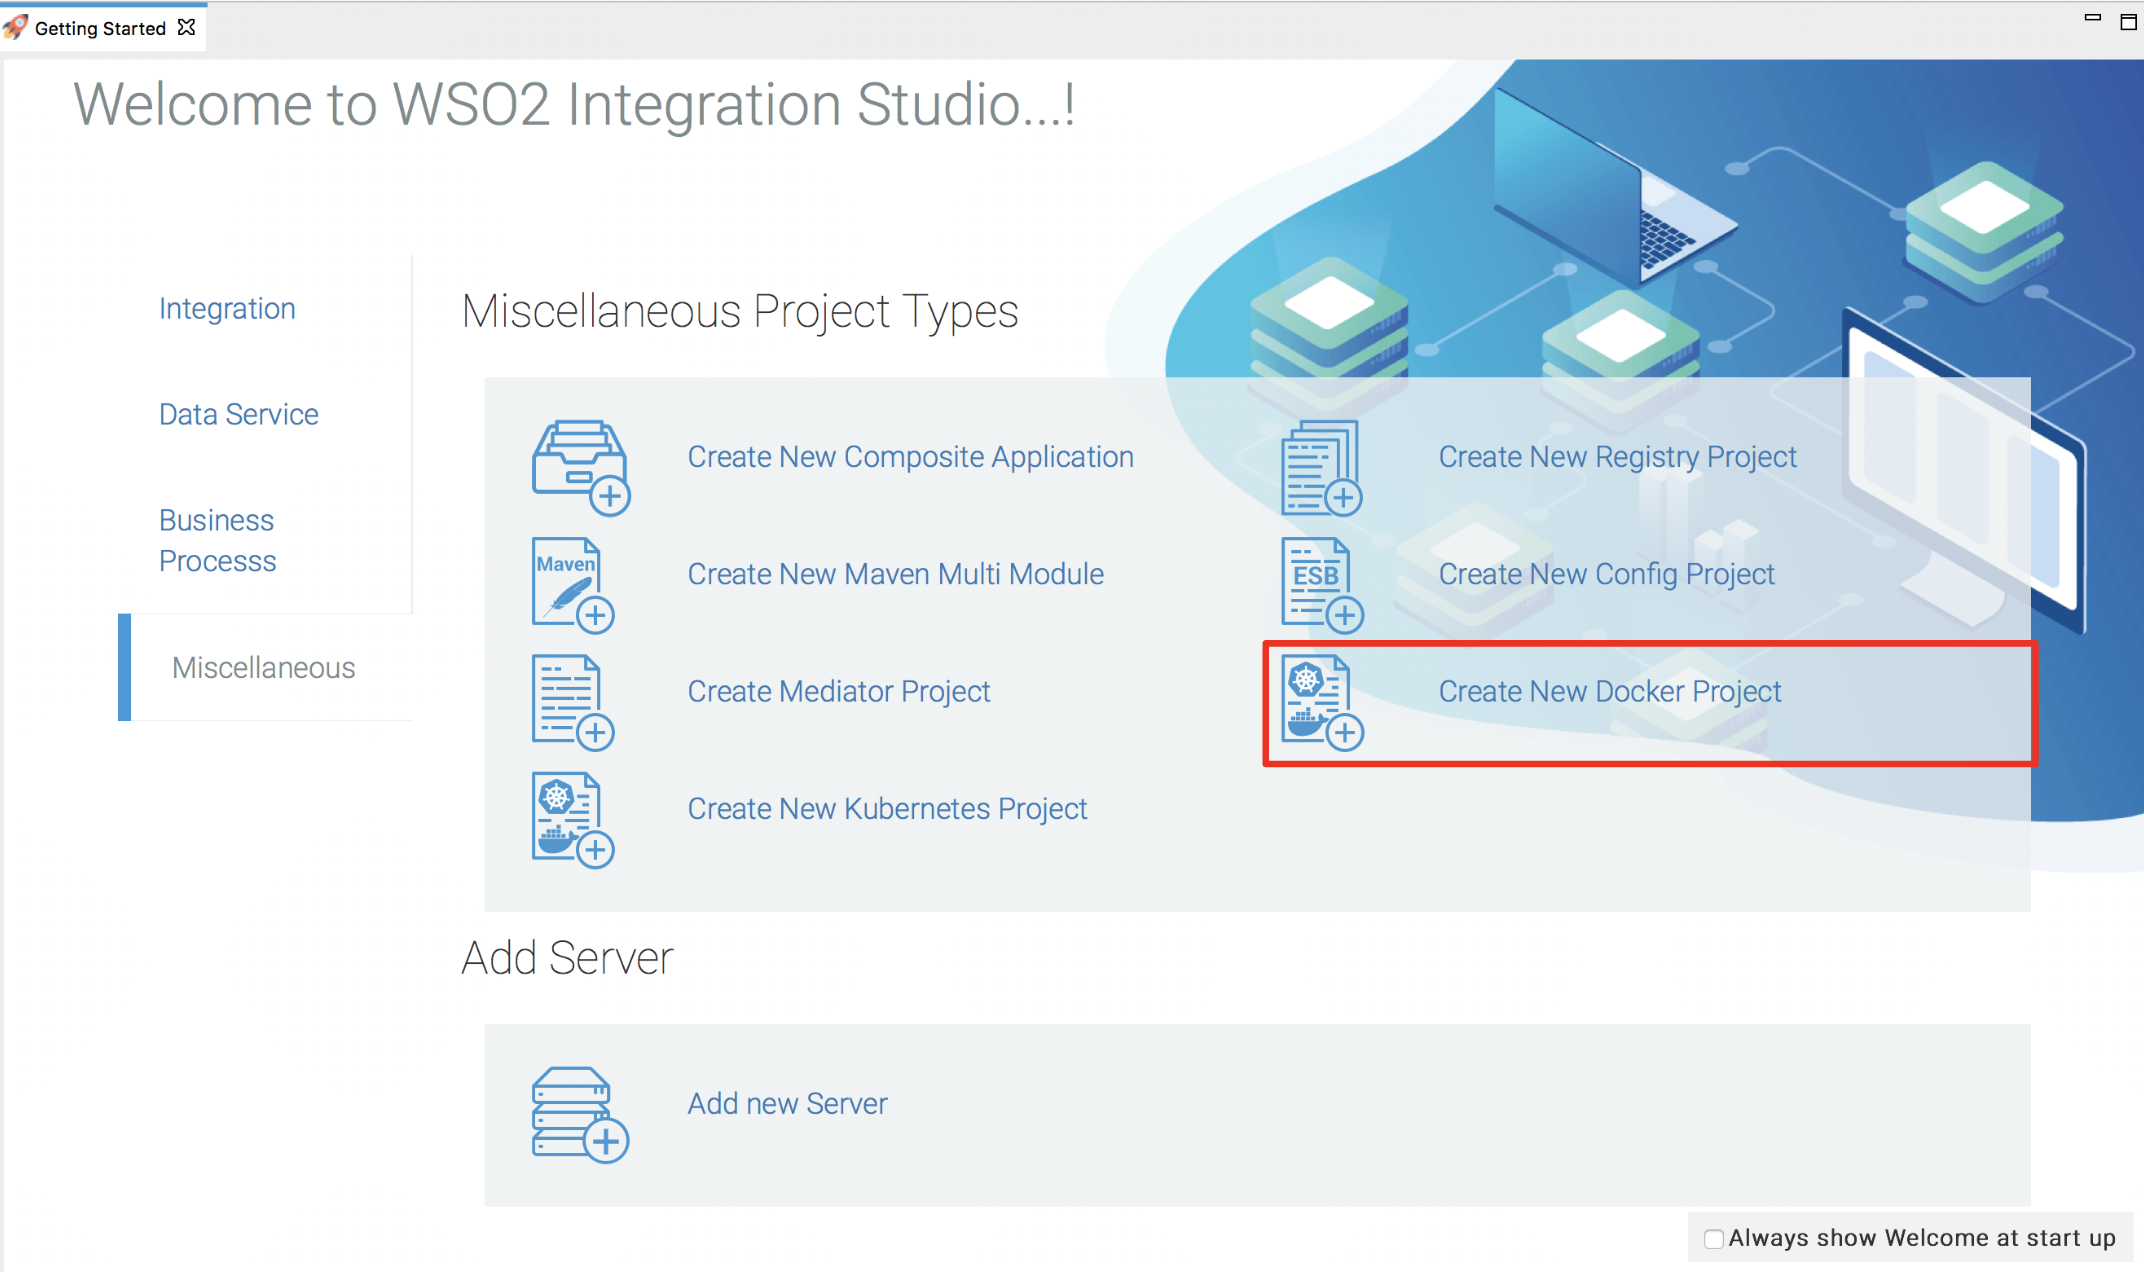
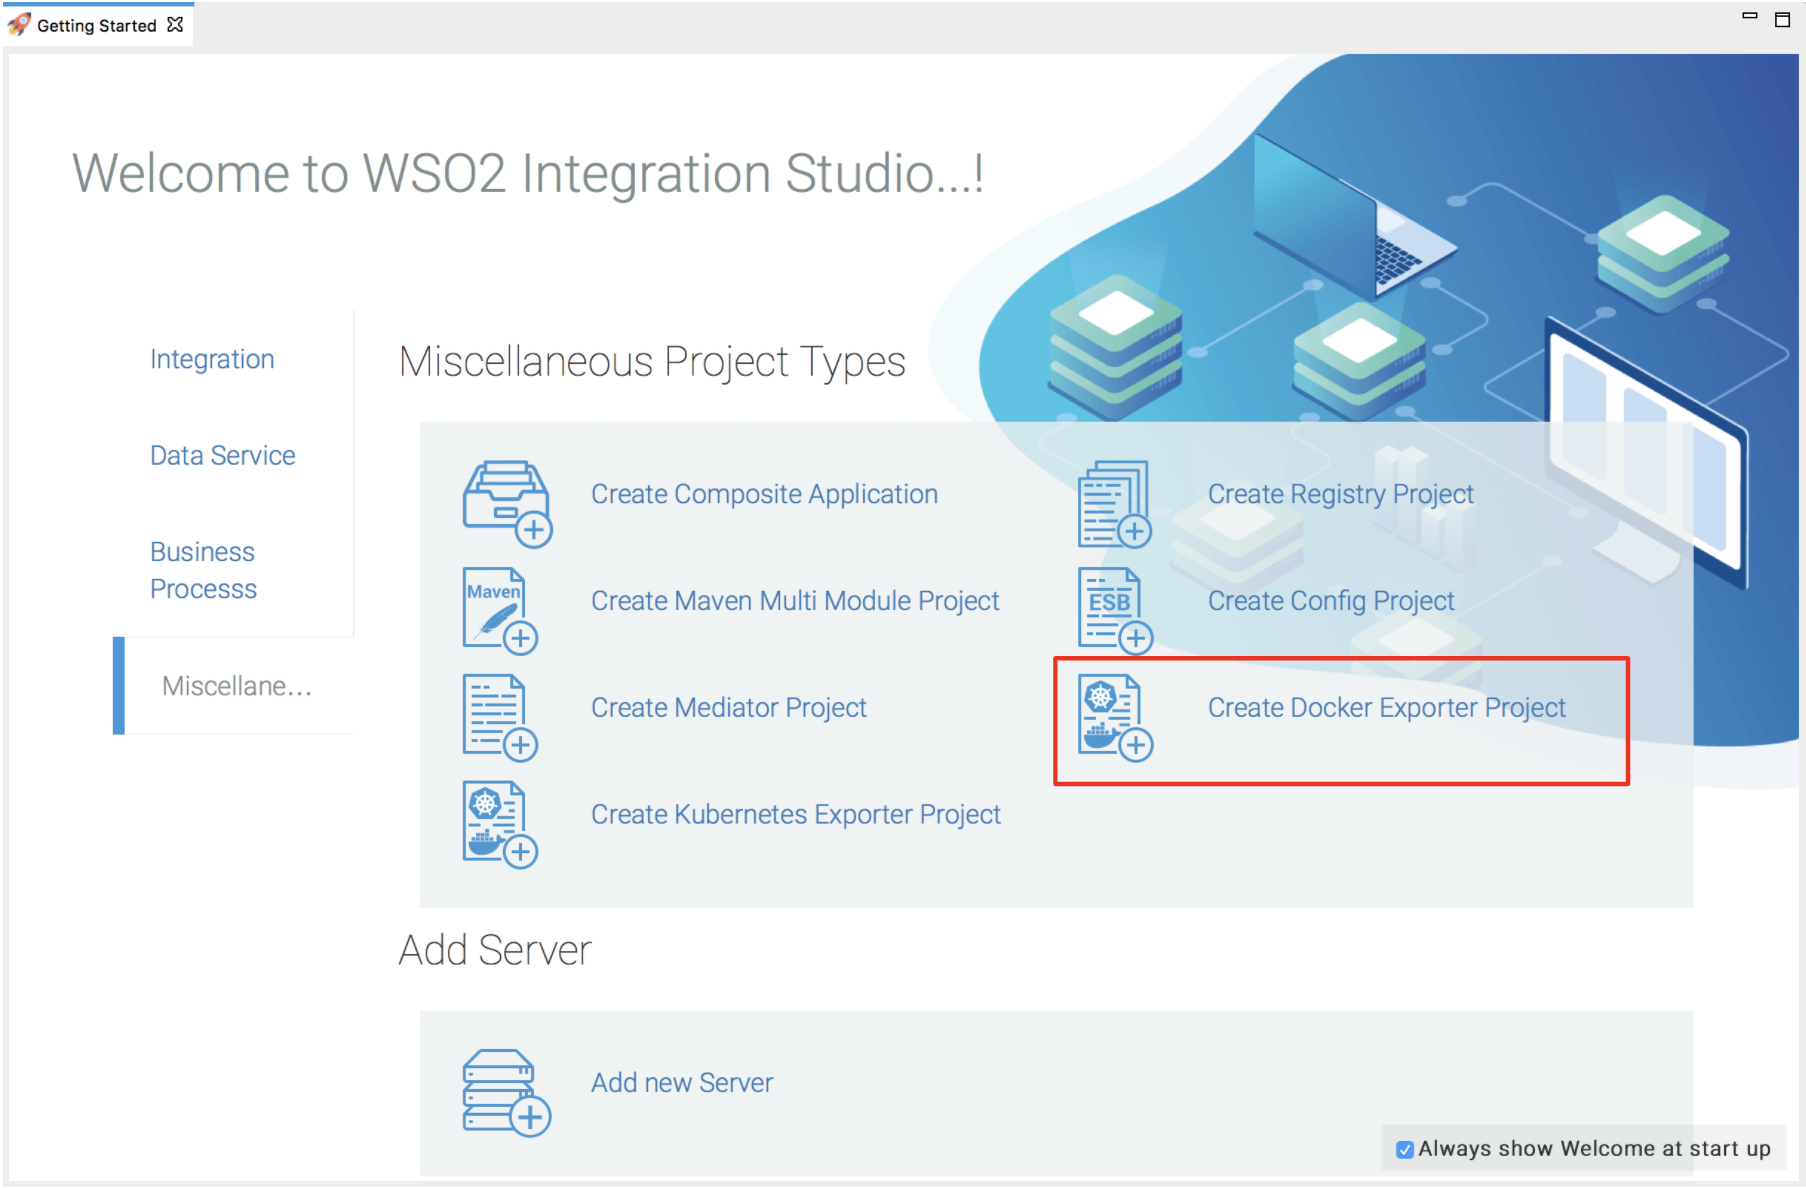
k8s/docker project screenshots

diff --git a/en/micro-integrator/docs/develop/create-docker-project.md b/en/micro-integrator/docs/develop/create-docker-project.md
@@ -12,7 +12,7 @@ It is recommended to [get the latest updates](../../develop/installing-WSO2-Inte
 ## Creating the Docker project
 Follow the steps given below.   
 
-1.  Open **WSO2 Integration Studio** and click **Miscellaneous → Create New Docker Project** in the **Getting Started** view as shown below.
+1.  Open **WSO2 Integration Studio** and click **Miscellaneous → Create Docker Exporter Project** in the **Getting Started** view as shown below.
 
     <img src="../../assets/img/create_project/docker_k8s_project/get_started_docker_project.png" width="1000">
 

diff --git a/en/micro-integrator/docs/develop/create-kubernetes-project.md b/en/micro-integrator/docs/develop/create-kubernetes-project.md
@@ -15,7 +15,7 @@ It is recommended to [get the latest updates](../../develop/installing-WSO2-Inte
 
 Follow the steps given below.   
 
-1.  Open **WSO2 Integration Studio** and click **Miscellaneous → Create New Kubernetes Project** in the **Getting Started** view as shown below.
+1.  Open **WSO2 Integration Studio** and click **Miscellaneous → Create Kubernetes Exporter Project** in the **Getting Started** view as shown below.
     
     <img src="../../assets/img/create_project/docker_k8s_project/get_started_k8s_project.png" width="1000">
 
